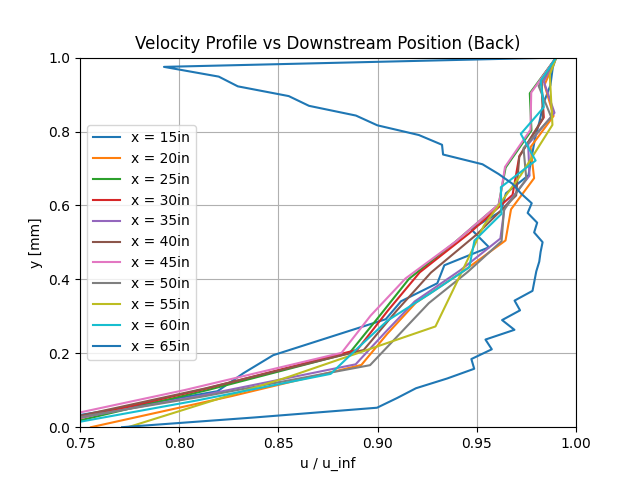
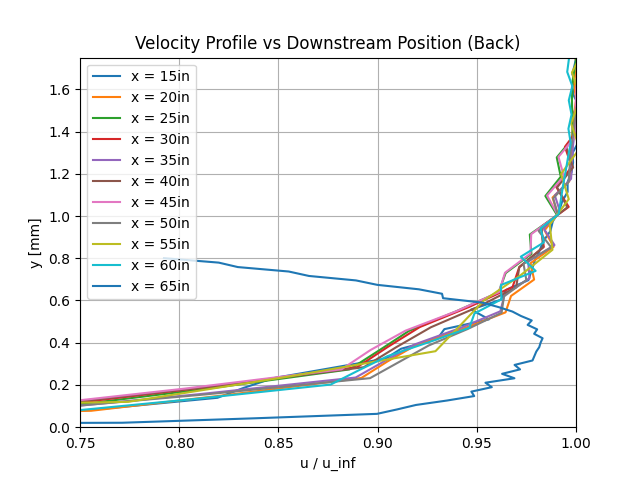
these graphs man

diff --git a/aere-344/labs/8/main.py b/aere-344/labs/8/main.py
@@ -11,6 +11,10 @@ nu = 1.57e-5
 mu = nu * rho
 Delta_y = 4 / 1000
 
+Re_tr = 5e5
+x_tr = (Re_tr * nu) / u_inf
+delta_tr = 5 * x_tr / np.sqrt(Re_tr)
+
 is_ = list(range(0, 39))
 
 # broken_indices = [2, 11, 17, 22]
@@ -34,6 +38,7 @@ def boundary_model(y, d):
 deltas = []
 deltas_theoretical = []
 thetas = []
+profiles = []
 
 
 def plt_figure_1(name):
@@ -43,12 +48,12 @@ def plt_figure_1(name):
     plt.ylabel("y [mm]")
     plt.xlabel("u / u_inf")
     plt.xlim(left=0.75, right=1)
-    plt.ylim(bottom=0, top=1)
+    plt.ylim(bottom=0, top=1.75)
 
 
 for x_in in xs_in:
     path = f"data/{x_in}in.csv"
-    sample_range = x_in * in_to_m
+    profile_range = x_in * in_to_m
     x = x_in * in_to_m
 
     with open(path) as file:
@@ -78,13 +83,16 @@ for x_in in xs_in:
 
         p0_pitot = mean_sample[39 - 1]
         p_inf = mean_sample[40 - 1]
-        p0 = np.array(mean_sample[0:39])
+        p0 = np.array(mean_sample[0:38])
 
         q_inf = p0_pitot - p_inf
         q = np.maximum(0, p0 - p_inf)
 
         u_inf = np.sqrt((2 / rho) * q_inf)
         u = np.sqrt((2 / rho) * q)
+        u = [0] + list(u)
+
+        profiles.append(u)
 
         idx = np.argmax(u >= 0.99 * u_inf)
 
@@ -95,7 +103,13 @@ for x_in in xs_in:
 
         Re_x = u_inf * x / nu
         delta = y1 + (0.99 * u_inf - u1) * (y2 - y1) / (u2 - u1)
-        delta_theoretical = 0.37 * x * Re_x ** (-0.2)
+
+        if x < x_tr:
+            delta_theoretical = 5 * x / np.sqrt(Re_x)
+        else:
+            delta_theoretical = delta_tr + 0.37 * (
+                x / (Re_x ** (1 / 5)) - x_tr / (Re_tr ** (1 / 5))
+            )
 
         deltas.append(delta)
         deltas_theoretical.append(delta_theoretical)
@@ -142,85 +156,20 @@ plt.xlim(left=0, right=xs_in[-1])
 plt.grid()
 plt.savefig(f"out/momentum_thickness.png")
 
-# rake_sample = np.array(sample[0:38] + [0])
-# total_sample = np.array(sample[38])
-# static_sample = np.array(sample[39])
+plt.clf()
 
-# valid = np.ones(len(rake_sample), dtype=bool)
-# valid[broken_indices] = False
-# sample_range = np.arange(len(rake_sample))
-# rake_sample = np.interp(
-#     sample_range, sample_range[valid], rake_sample[valid]
-# )
+profile_range, y = np.meshgrid(xs_in, ys_mm)
+z = np.array(profiles).T
 
-# rake_sample = np.flip(rake_sample)
-# rake_samples.append(rake_sample)
-# total_samples.append(total_sample)
-# static_samples.append(static_sample)
+plt.contourf(profile_range, y, z)
+plt.colorbar(label="u [m/s]")
+plt.xlabel("x [in]")
+plt.ylabel("y [mm]")
 
-# p0 = np.mean(rake_samples, axis=0)
-# p0_inf = np.mean(total_samples)
-# p_inf = np.mean(static_samples)
+plt.title("Velocity Profile vs Downstream Position (Linear)")
+plt.savefig("out/velocity_profile_linear.png")
 
-# # print(p0)
+plt.yscale("symlog")
 
-# u = np.sqrt((2 * np.maximum(0, p0 - p_inf)) / rho)
-# u_inf = np.sqrt((2 * (p0_inf - p_inf)) / rho)
-# u[0] = 0
-
-# Re_x = u_inf * x / nu
-
-# popt, _ = curve_fit(boundary_model, ys, u / u_inf)
-# d_fit = popt[0]
-# delta = -d_fit * np.log(0.01)
-# delta_theory = 0.37 * x * Re_x**-0.2
-
-# idx99 = np.where(u > 0.99 * u_inf)[0][0]
-# delta_last = ys[idx99]
-
-# print(delta, delta_last, delta_theory)
-
-# integrand_disp = 1 - u / u_inf
-# delta_star = np.trapezoid(integrand_disp, ys)
-# delta_star_theory = 0.048 * x * Re_x**-0.2
-
-# C_D_theory = 0.074 * Re_x**-0.2
-
-# [du_dy_wall, _] = np.polyfit(ys[0:4], u[0:4], 1)
-# tau_w = mu * du_dy_wall
-# C_f_theory = 0.058 * Re_x**-0.2
-# tau_w_theory = C_f_theory * 0.5 * rho * u_inf**2
-
-# theta = sum((u / u_inf) * (1 - u / u_inf) * Delta_y)
-
-# profiles.append(u)
-# deltas.append(delta)
-# thetas.append(theta)
-
-# ys_mm = ys * 1000
-
-# sample_range, y = np.meshgrid(xs_in, ys_mm)
-# z = np.array(profiles).T
-
-# plt.figure(1)
-
-# plt.contourf(sample_range, y, z)
-# plt.colorbar(label="u [m/s]")
-
-# plt.xlabel("x [in]")
-# plt.ylabel("y [mm]")
-
-# plt.title("Velocity Profile vs Downstream Position (Linear)")
-# plt.savefig("out/velocity_profile_vs_downstream_position_linear_filled_contour.png")
-
-# plt.yscale("symlog")
-
-# plt.title("Velocity Profile vs Downstream Position (Logarithmic)")
-# plt.savefig(
-#     "out/velocity_profile_vs_downstream_position_linear_logarithmic_filled_contour.png"
-# )
-
-# plt.figure(2)
-
-# plt.plot(xs_in, deltas)
-# plt.savefig("out/boundary_thickness_vs_downstream_position.png")
+plt.title("Velocity Profile vs Downstream Position (Logarithmic)")
+plt.savefig("out/velocity_profile_logarithmic.png")
